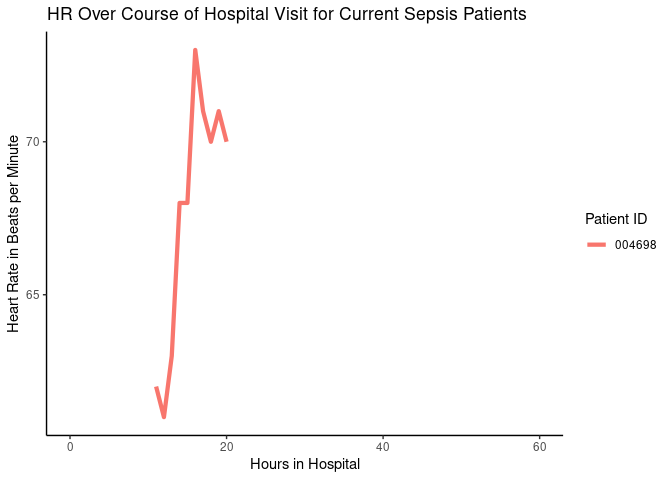
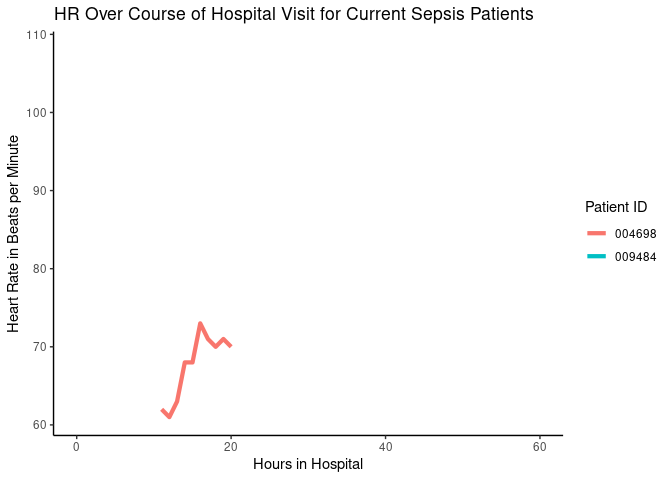
Updated report

diff --git a/README.md b/README.md
@@ -3,7 +3,7 @@ Sepsis Data Report
 
 ## Sepsis Patient Information
 
-### Data last updated: 2023-04-12 10:32:50
+### Data last updated: 2023-04-12 11:45:05
 
 #### Current Vitals for Patients with Sepsis
 
@@ -18,6 +18,13 @@ Sepsis Data Report
   </tr>
  </thead>
 <tbody>
+  <tr>
+   <td style="text-align:left;"> 009484 </td>
+   <td style="text-align:right;"> 85 </td>
+   <td style="text-align:right;"> 108 </td>
+   <td style="text-align:right;"> NA </td>
+   <td style="text-align:right;"> 21 </td>
+  </tr>
   <tr>
    <td style="text-align:left;"> 004698 </td>
    <td style="text-align:right;"> 20 </td>
@@ -565,14 +572,14 @@ Sepsis Data Report
   </tr>
   <tr>
    <td style="text-align:left;"> 009484 </td>
-   <td style="text-align:right;"> 84 </td>
-   <td style="text-align:left;"> No </td>
-   <td style="text-align:right;"> 93 </td>
-   <td style="text-align:right;"> 37.89 </td>
-   <td style="text-align:right;"> 24 </td>
-   <td style="text-align:right;"> -28 </td>
+   <td style="text-align:right;"> 85 </td>
+   <td style="text-align:left;"> Yes </td>
+   <td style="text-align:right;"> 108 </td>
    <td style="text-align:right;"> NA </td>
-   <td style="text-align:right;"> 4 </td>
+   <td style="text-align:right;"> 21 </td>
+   <td style="text-align:right;"> 15 </td>
+   <td style="text-align:right;"> NA </td>
+   <td style="text-align:right;"> -3 </td>
   </tr>
   <tr>
    <td style="text-align:left;"> 009702 </td>
